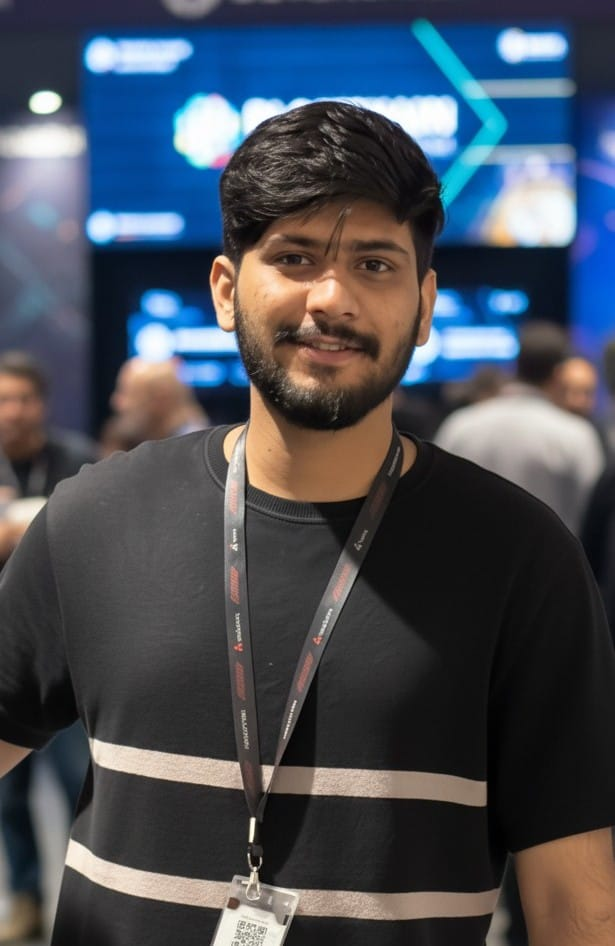
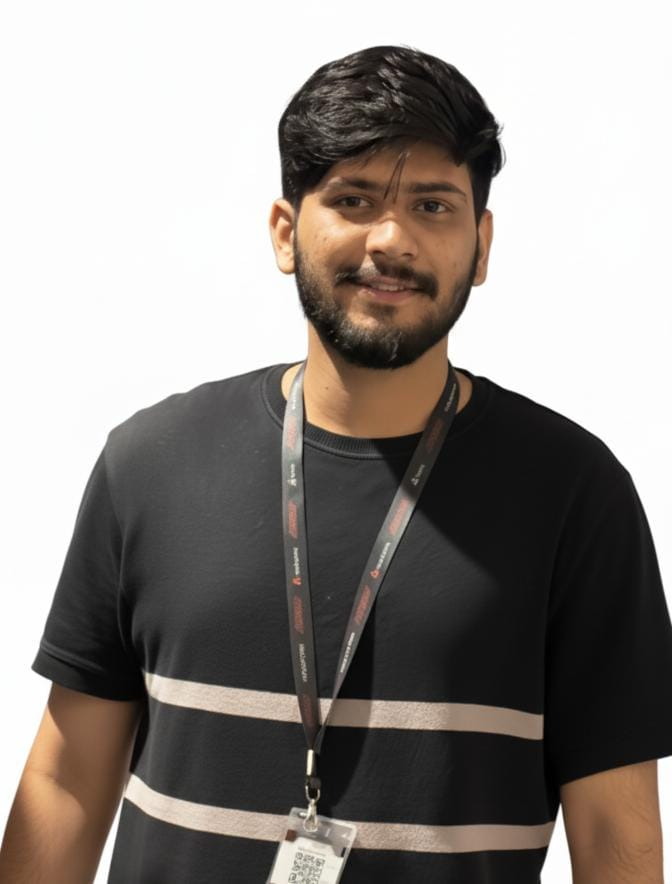
changed photo

diff --git a/portfolio/src/components/About/About.js b/portfolio/src/components/About/About.js
@@ -16,7 +16,7 @@ function About() {
         <div className="SectionTitle">About Me</div>
         <div className="BigCard">
           <ScrollAnimation animateIn="fadeInLeft">
-            <Image src="/mee1.png" alt="man-svgrepo" />
+            <Image src="/mee.png" alt="man-svgrepo" />
           </ScrollAnimation>
           <div className="AboutBio">
             <ScrollAnimation animateIn="fadeInLeft">

diff --git a/portfolio/src/components/Hero/Hero.js b/portfolio/src/components/Hero/Hero.js
@@ -94,7 +94,7 @@ function Hero() {
           <HeroRight>
             <ScrollAnimation animateIn="fadeIn">
               <Image
-                src="/mee1.png"
+                src="/mee.png"
                 alt="man-svgrepo"
               />
             </ScrollAnimation>
